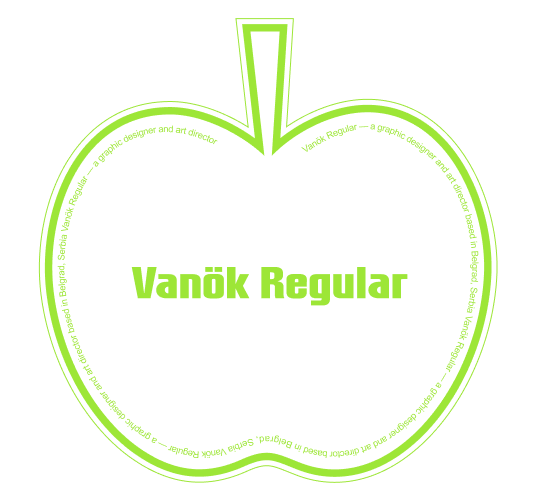
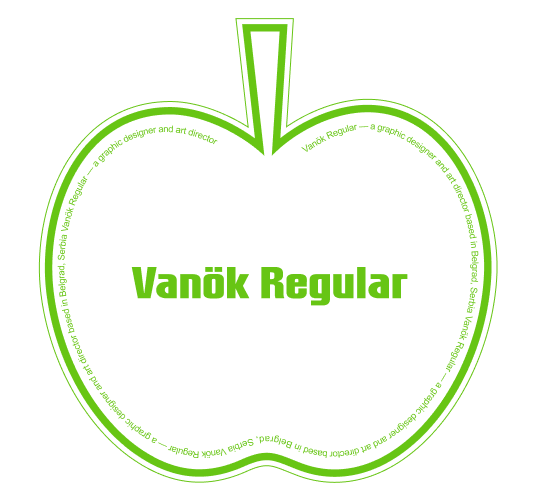
Match the green apple to the new ink so the fruit and the stamp stay the same color.

Changed region(s): [[0.0596, 0.03, 0.9236, 0.96], [0.2384, 0.51, 0.7747, 0.63]]

diff --git a/index.html b/index.html
@@ -452,9 +452,9 @@ function prepareStamp(model) {
 
 const APPLE_FILE = 'models/apple_green_quaternius.glb';
 const STAMP_FILE = 'models/stamp_round.glb';
-const APPLE_GREEN = 0x9de637;
+const APPLE_GREEN = 0x67c514;
 const APPLE_RED = 0xe23b32;
-const STAMP_GREEN = 0x9de637;
+const STAMP_GREEN = 0x67c514;
 
 function cloneMaterials(root) {
   root.traverse((o) => {
@@ -531,22 +531,22 @@ function prepareHalfApple(gltf) {
 const STAMP_IMPRINTS = [
   { file: 'stamp-01.png', src: 'design/stamps/stamp-01.png?v=297' },
   { file: 'stamp-02.png', src: 'design/stamps/stamp-02.png?v=301' },
-  { file: 'stamp-green.png', src: 'design/stamps/stamp-green.png?v=298' },
+  { file: 'stamp-green.png', src: 'design/stamps/stamp-green.png?v=298b' },
 ];
 const APPLE_IMPRINTS = [
   { file: 'apple-01.png', src: 'design/stamps/apple-01.png?v=299' },
   { file: 'apple-02.png', src: 'design/stamps/apple-02.png?v=302' },
-  { file: 'apple-green.png', src: 'design/stamps/apple-green.png?v=300' },
+  { file: 'apple-green.png', src: 'design/stamps/apple-green.png?v=300b' },
 ];
 const STAMP_CASTS = [
   { file: 'stamp-01.png', hex: 0x0c70f4, color: 'blue' },
   { file: 'stamp-02.png', hex: 0xff91f8, color: 'pink' },
-  { file: 'stamp-green.png', hex: 0x9de637, color: 'green' },
+  { file: 'stamp-green.png', hex: 0x67c514, color: 'green' },
 ];
 const APPLE_CASTS = [
   { file: 'apple-01.png', hex: 0x0c6df4, color: 'blue' },
   { file: 'apple-02.png', hex: 0xff91f8, color: 'pink' },
-  { file: 'apple-green.png', hex: 0x9de637, color: 'green' },
+  { file: 'apple-green.png', hex: 0x67c514, color: 'green' },
 ];
 const INK_FRAC = 505 / 539;
 
@@ -1890,7 +1890,7 @@ function mountViewportApple() {
   };
 }
 
-const SKIN = { color: 0x9de637, emissive: 0xbff551, emissiveIntensity: 0.1, metalness: 0, roughness: 0.42 };
+const SKIN = { color: 0x67c514, emissive: 0x7be81a, emissiveIntensity: 0.1, metalness: 0, roughness: 0.42 };
 const STEM = { color: 0x7a4e28, emissive: 0x000000, emissiveIntensity: 0, metalness: 0, roughness: 0.64 };
 const LEAF = { color: 0x2f861f, emissive: 0x14300a, emissiveIntensity: 0.18, metalness: 0, roughness: 0.52 };
 const FLESH = { color: 0xf6e0b8, emissive: 0xf0d0a0, emissiveIntensity: 0.08, metalness: 0, roughness: 0.62 };
